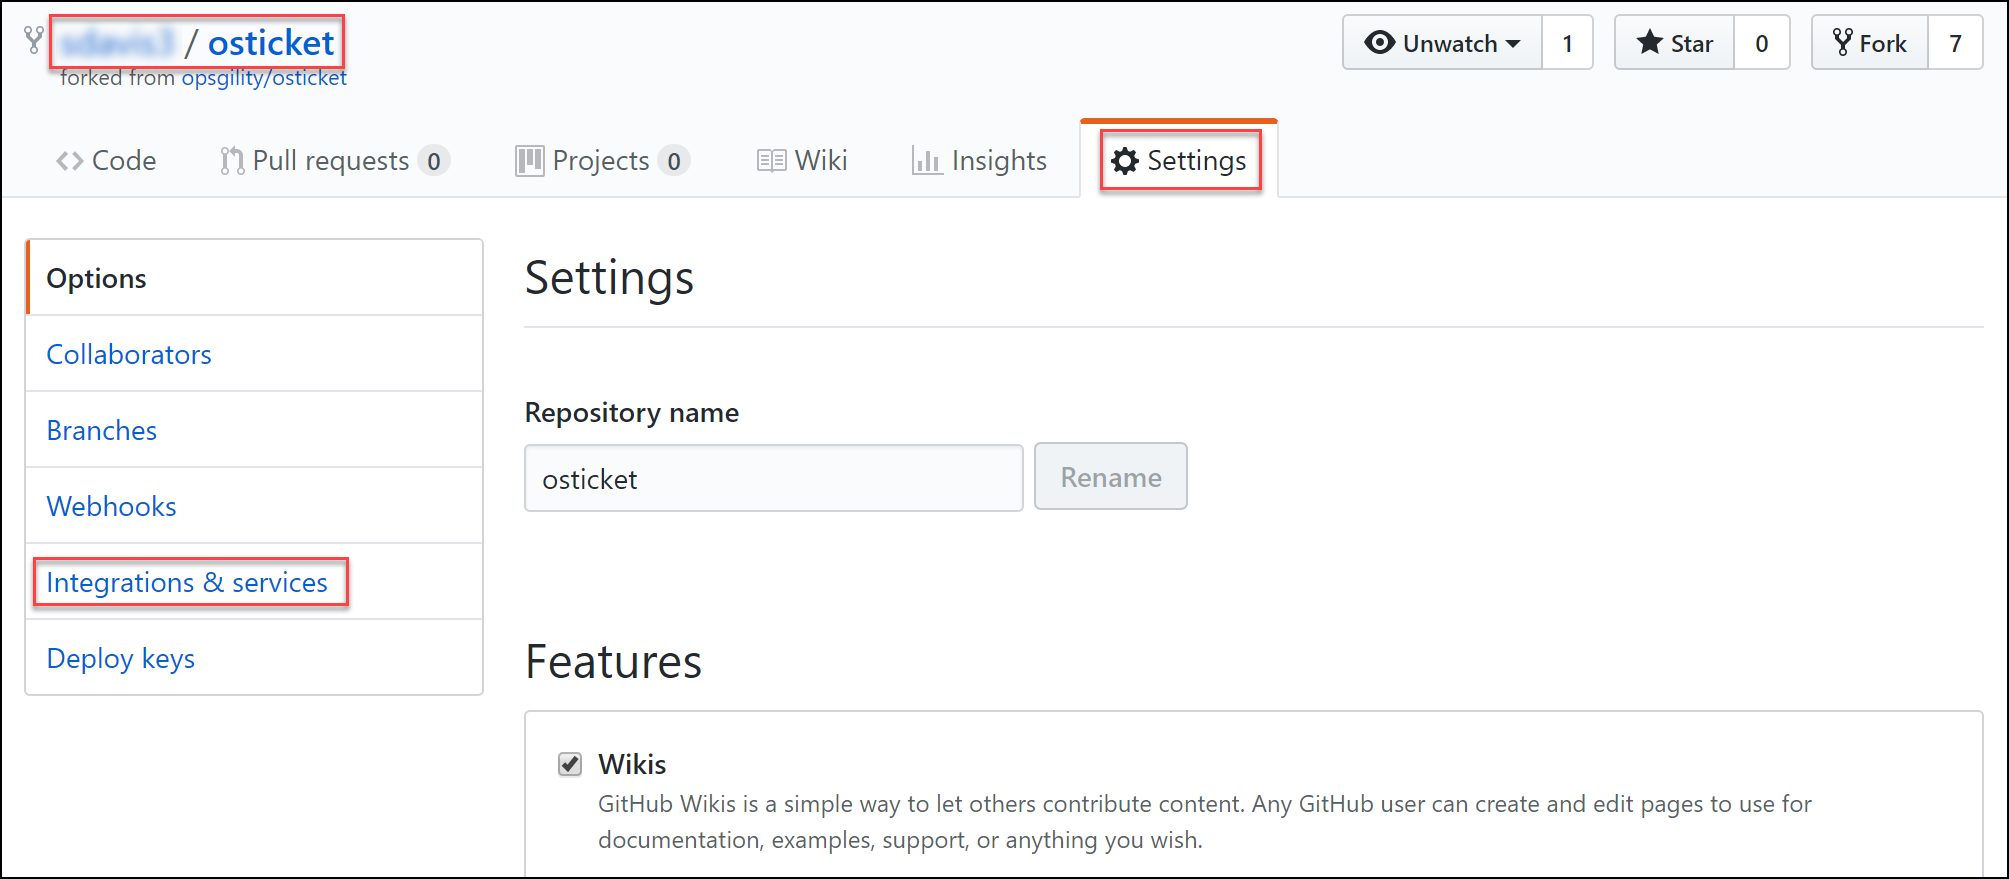
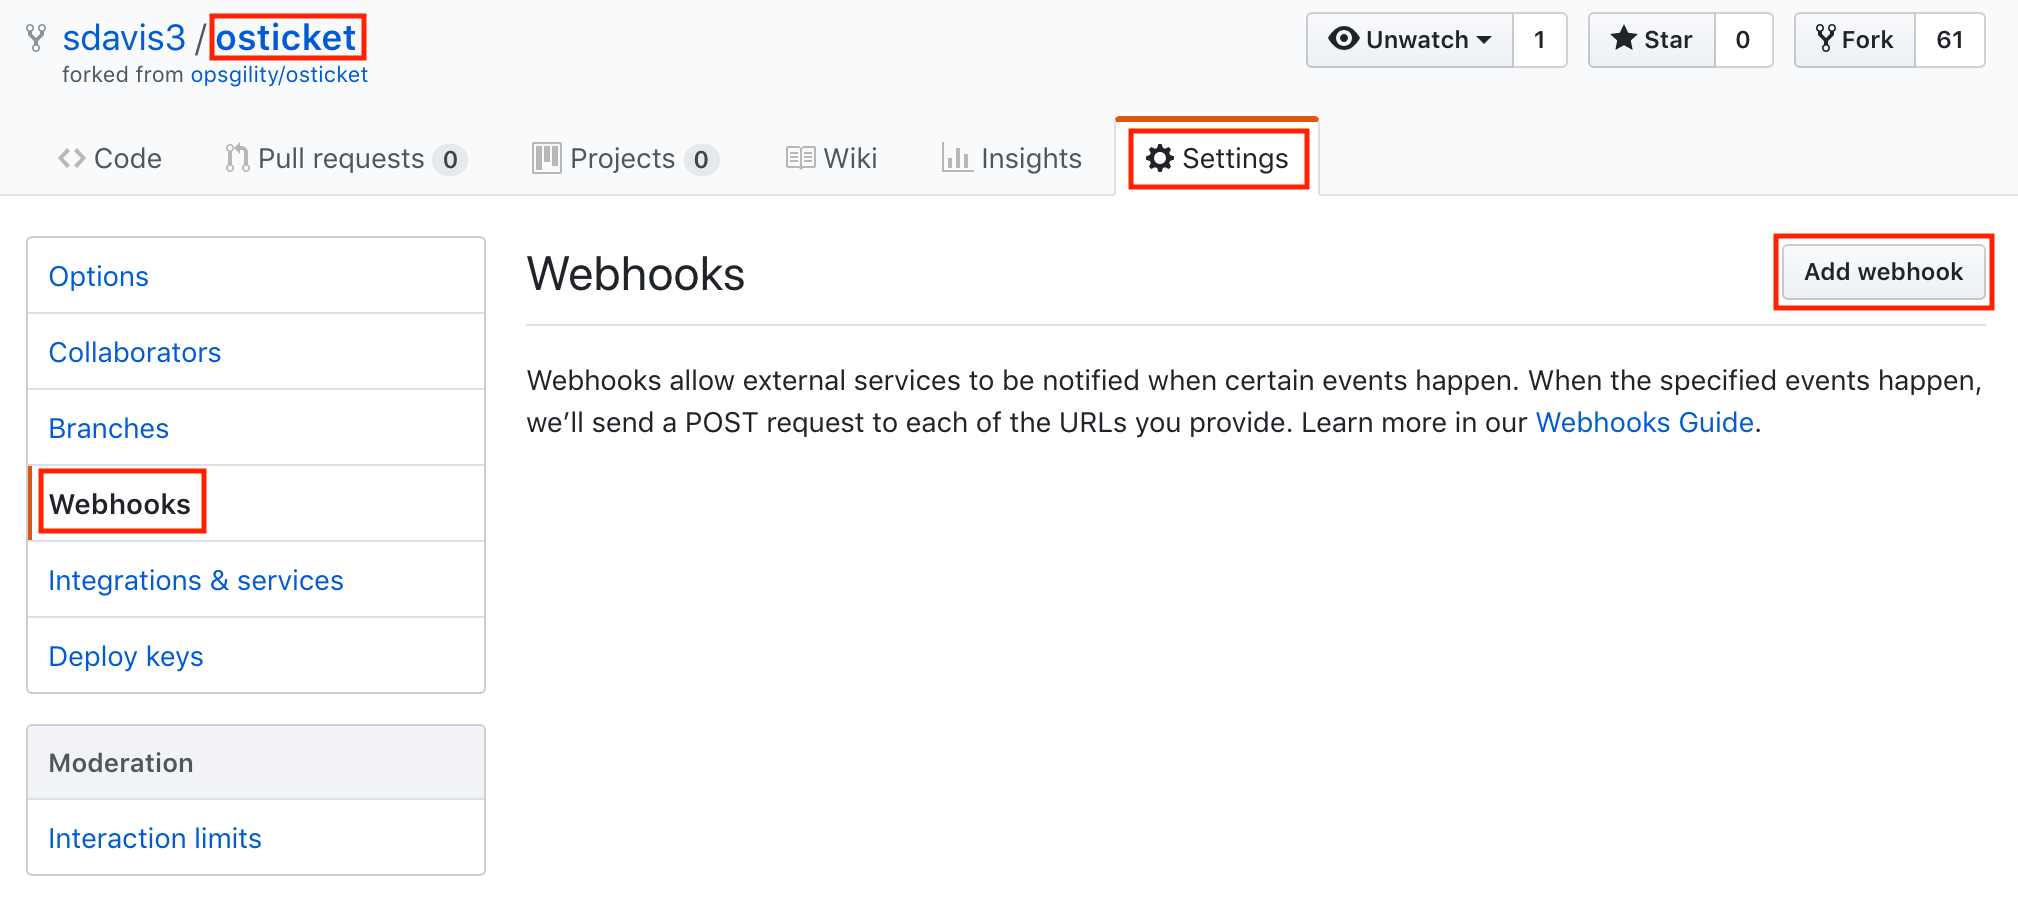
resolves #21

diff --git a/Hands-on lab/HOL step-by-step - OSS DevOps.md b/Hands-on lab/HOL step-by-step - OSS DevOps.md
@@ -46,9 +46,10 @@ Microsoft and the trademarks listed at https://www.microsoft.com/en-us/legal/int
     - [Task 1: Deploy a Jenkins server in Azure](#task-1-deploy-a-jenkins-server-in-azure)
     - [Task 2: Post-deployment configuration of the Jenkins server](#task-2-post-deployment-configuration-of-the-jenkins-server)
     - [Task 3: Configure Jenkins staging deployment](#task-3-configure-jenkins-staging-deployment)
-    - [Task 4: Configure your GitHub repo to notify Jenkins of changes](#task-4-configure-your-github-repo-to-notify-jenkins-of-changes)
-    - [Task 5: Check in a change to trigger Jenkins job](#task-5-check-in-a-change-to-trigger-jenkins-job)
-    - [Task 6: Manually deploy to production](#task-6-manually-deploy-to-production)
+    - [Task 4: Create a GitHub Personal Access Token](#task-4-create-a-github-personal-access-token)
+    - [Task 5: Configure your GitHub repo to notify Jenkins of changes](#task-5-configure-your-github-repo-to-notify-jenkins-of-changes)
+    - [Task 6: Check in a change to trigger Jenkins job](#task-6-check-in-a-change-to-trigger-jenkins-job)
+    - [Task 7: Manually deploy to production](#task-7-manually-deploy-to-production)
     - [Summary](#summary-2)
   - [After the hands-on lab](#after-the-hands-on-lab)
     - [Task 1: Delete Resources](#task-1-delete-resources)
@@ -324,7 +325,7 @@ In this exercise, you will deploy the web application and database to Azure usin
 
     ![The text field under Commit changes reads, \"Updated MySQL Server Settings.\" The option to Commit directly to the master branch is selected, as is the Commit Changes button at the bottom. ](images/Hands-onlabstep-by-step-OSSDevOpsimages/media/image54.png "Commit changes section")
 
-*** Task 5: Configure Deployment Center
+### Task 5: Configure Deployment Center
 
 Since you will be leveraging Jenkins to deploy the source code, you must first configure Deployment Center.
 
@@ -619,25 +620,59 @@ You are now ready to define your staging deployment job.
 
 21. On the **My Tickets** screen, move through to one of the tickets. Congratulations, you have successfully deployed the application.
 
-### Task 4: Configure your GitHub repo to notify Jenkins of changes
+### Task 4: Create a GitHub Personal Access Token
+
+For an upcoming task, you will need to generate a GitHub Personal Access Token. This token will allow GitHub to send Jenkins data to automatically trigger builds. 
+
+1.  Open a new browser tab and log into your GitHub repo ([https://github.com/\<username\>/osTicket](https://github.com/%3cusername%3e/osticket)), and choose your profile (top-right portion of the screen) followed by **Settings**.
+
+    ![Screenshot of GitHub profile Settings menu.](images/Hands-onlabstep-by-step-OSSDevOpsimages/media/image109.png "GitHub profile settings")
+
+2.  Select the **Developer settings** item from the left-side menu.
+
+    ![Screenshot of personal settings menu.](images/Hands-onlabstep-by-step-OSSDevOpsimages/media/image110.png "Developer settings")
+
+3.  When the Developer settings appear, select the **Personal access tokens** item from the left-side menu. Then, click the **Generate new token** button at the top of the screen to generate a new token.
+
+    ![Screenshot of Developer settings menu.](images/Hands-onlabstep-by-step-OSSDevOpsimages/media/image111.png "Personal access tokens")
+
+4.  On the **New personal access token** screen, enter a name such as **Jenkins Builds** in the **Token description field** and be sure to check the box for **admin:org_hook** under the **Selected scopes** section. 
+
+    ![Screenshot of Personal access tokens page.](images/Hands-onlabstep-by-step-OSSDevOpsimages/media/image112.png "Personal access tokens page")
+
+5.  Then click the **Generate token** button at the bottom of the page to complete the token generation process.
+
+6.  The page will refresh and your new Personal access token will be displayed near the top. Be sure to copy this token (yours will be different) and paste it into a notepad for later use as you will not be able to retreive it from GitHub once you leave this page.
+
+    ![Screenshot of the new Personal access token.](images/Hands-onlabstep-by-step-OSSDevOpsimages/media/image113.png "New Personal access token")
+
+### Task 5: Configure your GitHub repo to notify Jenkins of changes
 
 You will now configure your GitHub repository to notify your Jenkins server when a change has occurred, so the Jenkins Job is kicked off automatically.
 
-1.  Log into your GitHub repo ([https://github.com/\<username\>/osTicket](https://github.com/%3cusername%3e/osticket)), and choose **Settings** followed by **Integration & services**.
+1.  Log into your GitHub repo ([https://github.com/\<username\>/osTicket](https://github.com/%3cusername%3e/osticket)), and choose **Settings** followed by **Webhooks**.
 
-    ![Screenshot of GitHub repository Settings showing where Integration & services menu option is located.](images/Hands-onlabstep-by-step-OSSDevOpsimages/media/image97.png "Gitub settings")
+    ![Screenshot of GitHub repository Settings showing where Webhooks menu option is located.](images/Hands-onlabstep-by-step-OSSDevOpsimages/media/image97.png "Gitub settings")
 
-2.  Select **Add service**, and choose **Jenkins (GitHub plugin)**.
+2.  Select **Add webhook**, and set the following fields:
 
-    ![On the Installed integrations page, in the Services section, under Available Services, Jenkins (GitHub plugin) is selected.](images/Hands-onlabstep-by-step-OSSDevOpsimages/media/image98.png "Installed integrations page")
+    - **Payload URL** - This is the URL to your Jenkins environment appended with **/github-webhook/**. For example: **http://jenkins99.southcentralus.cloudapp.azure.com/github-webhook/**
 
-3.  For the Jenkins hook URL, enter the following (after updating the string with your servers FQDN). 
+        >**Note the trailing slash (/)** -- make sure it is included in your URL:
 
->**Note the trailing slash (/)** -- make sure it is included in your URL:
+    - **Content type** - Set this value to **application/json**.
 
-   ![On the Services / Add Jenkins (GitHub plugin) page, the previous code displays, and the Add service button is selected.](images/Hands-onlabstep-by-step-OSSDevOpsimages/media/image99.png "Services page")
+    - **Secret** - Paste your Personal access token that you saved from the previous task.
+- 
+    ![Add webhook page.](images/Hands-onlabstep-by-step-OSSDevOpsimages/media/image98.png "Add webhook")
 
-### Task 5: Check in a change to trigger Jenkins job
+3.  Finally, click the **Add webhook** button to finalize the creation of the new webhook.
+  
+4.  The page will refresh, and if we've done everything correctly, you'll see a confirmation that the webhook tested sucessfully as indicated by the green checkmark.
+
+    ![Successful webhook confirmation.](images/Hands-onlabstep-by-step-OSSDevOpsimages/media/image114.png "Successful webhook confirmation")
+
+### Task 6: Check in a change to trigger Jenkins job
 
 You will now check in a change to your Web Application code that will trigger your Jenkins job by editing the file that updates the home page.
 
@@ -685,7 +720,7 @@ You will now check in a change to your Web Application code that will trigger yo
 
     ![On the Jenkins portal homepage, Build History displays.](images/Hands-onlabstep-by-step-OSSDevOpsimages/media/image102.png "Jenkins portal homepage")
 
-### Task 6: Manually deploy to production
+### Task 7: Manually deploy to production
 
 Up to this point, you have automated the integration and delivery to your staging slot. You will now move those changes into the production slot *manually*. Leveraging the tools you have configured so far, you could ultimately automate this last step to get continuous deployment.
 
@@ -693,7 +728,7 @@ Up to this point, you have automated the integration and delivery to your stagin
 
     ![Screenshot showing how to navigate to the app service.](images/Hands-onlabstep-by-step-OSSDevOpsimages/media/image103.png "Choosing the web app")
 
-2.  Select **Deployment slots \> Swap**.
+2.  Select **Swap** at the top of the screen.
 
     ![Screenshot showing how to navigate to swap the deployment slots](images/Hands-onlabstep-by-step-OSSDevOpsimages/media/image104.png "Swapping the web app")
 

diff --git a/Hands-on lab/HOL unguided - OSS DevOps.md b/Hands-on lab/HOL unguided - OSS DevOps.md
@@ -27,32 +27,61 @@ Microsoft and the trademarks listed at https://www.microsoft.com/en-us/legal/int
 <!-- TOC -->
 
 - [OSS DevOps hands-on lab unguided](#oss-devops-hands-on-lab-unguided)
-    - [Abstract and learning objectives](#abstract-and-learning-objectives)
-    - [Overview](#overview)
-    - [Solution architecture](#solution-architecture)
-    - [Requirements](#requirements)
-        - [Help references](#help-references)
-    - [Exercise 1: Deploy the Web Application and Database to Azure](#exercise-1-deploy-the-web-application-and-database-to-azure)
-        - [Task 1: Create the MySQL database](#task-1-create-the-mysql-database)
-        - [Task 2: Restore the osTicket database to MySQL PaaS](#task-2-restore-the-osticket-database-to-mysql-paas)
-        - [Task 3: Create the Web App](#task-3-create-the-web-app)
-        - [Task 4: Configure the osTicket Web App](#task-4-configure-the-osticket-web-app)
-        - [Task 5: Configure FTP deployment credentials](#task-5-configure-ftp-deployment-credentials)
-        - [Task 6: Configure a staging slot](#task-6-configure-a-staging-slot)
-        - [Summary](#summary)
-    - [Exercise 2: Configure local Git repository](#exercise-2-configure-local-git-repository)
-        - [Task 1: Clone a GitHub repository locally](#task-1-clone-a-github-repository-locally)
-        - [Summary](#summary-1)
-    - [Exercise 3: Configure Git and Jenkins for continuous integration, delivery and deployment](#exercise-3-configure-git-and-jenkins-for-continuous-integration-delivery-and-deployment)
-        - [Task 1: Deploy a Jenkins server in Azure](#task-1-deploy-a-jenkins-server-in-azure)
-        - [Task 2: Post-Deployment configuration of the Jenkins server](#task-2-post-deployment-configuration-of-the-jenkins-server)
-        - [Task 3: Configure Jenkins staging deployment](#task-3-configure-jenkins-staging-deployment)
-        - [Task 4: Configure your GitHub repo to notify Jenkins of changes](#task-4-configure-your-github-repo-to-notify-jenkins-of-changes)
-        - [Task 5: Check in a change to trigger Jenkins job](#task-5-check-in-a-change-to-trigger-jenkins-job)
-        - [Task 6: Manually deploy to production](#task-6-manually-deploy-to-production)
-        - [Summary](#summary-2)
-    - [After the hands-on lab](#after-the-hands-on-lab)
-        - [Task 1: Delete Resources](#task-1-delete-resources)
+  - [Abstract and learning objectives](#abstract-and-learning-objectives)
+  - [Overview](#overview)
+  - [Solution architecture](#solution-architecture)
+  - [Requirements](#requirements)
+    - [Help references](#help-references)
+  - [Exercise 1: Deploy the Web Application and Database to Azure](#exercise-1-deploy-the-web-application-and-database-to-azure)
+    - [Task 1: Create the MySQL database](#task-1-create-the-mysql-database)
+      - [Tasks to complete](#tasks-to-complete)
+      - [Exit criteria](#exit-criteria)
+    - [Task 2: Restore the osTicket database to MySQL PaaS](#task-2-restore-the-osticket-database-to-mysql-paas)
+      - [Tasks to complete](#tasks-to-complete-1)
+      - [Exit criteria](#exit-criteria-1)
+    - [Task 3: Create the Web App](#task-3-create-the-web-app)
+      - [Tasks to complete](#tasks-to-complete-2)
+      - [Exit criteria](#exit-criteria-2)
+    - [Task 4: Configure the osTicket Web App](#task-4-configure-the-osticket-web-app)
+      - [Tasks to complete](#tasks-to-complete-3)
+      - [Exit criteria](#exit-criteria-3)
+    - [Task 5: Configure Deployment Center](#task-5-configure-deployment-center)
+      - [Tasks to complete](#tasks-to-complete-4)
+      - [Exit criteria](#exit-criteria-4)
+    - [Task 6: Configure a staging slot](#task-6-configure-a-staging-slot)
+      - [Tasks to complete](#tasks-to-complete-5)
+      - [Exit criteria](#exit-criteria-5)
+    - [Summary](#summary)
+  - [Exercise 2: Configure local Git repository](#exercise-2-configure-local-git-repository)
+    - [Task 1: Clone a GitHub repository locally](#task-1-clone-a-github-repository-locally)
+      - [Tasks to complete](#tasks-to-complete-6)
+      - [Exit criteria](#exit-criteria-6)
+    - [Summary](#summary-1)
+  - [Exercise 3: Configure Git and Jenkins for continuous integration, delivery and deployment](#exercise-3-configure-git-and-jenkins-for-continuous-integration-delivery-and-deployment)
+    - [Task 1: Deploy a Jenkins server in Azure](#task-1-deploy-a-jenkins-server-in-azure)
+      - [Tasks to complete](#tasks-to-complete-7)
+      - [Exit criteria](#exit-criteria-7)
+    - [Task 2: Post-deployment configuration of the Jenkins server](#task-2-post-deployment-configuration-of-the-jenkins-server)
+      - [Tasks to complete](#tasks-to-complete-8)
+      - [Exit criteria](#exit-criteria-8)
+    - [Task 3: Configure Jenkins staging deployment](#task-3-configure-jenkins-staging-deployment)
+      - [Tasks to complete](#tasks-to-complete-9)
+      - [Exit criteria](#exit-criteria-9)
+    - [Task 4: Create a GitHub Personal Access Token](#task-4-create-a-github-personal-access-token)
+      - [Tasks to complete](#tasks-to-complete-10)
+      - [Exit criteria](#exit-criteria-10)
+    - [Task 5: Configure your GitHub repo to notify Jenkins of changes](#task-5-configure-your-github-repo-to-notify-jenkins-of-changes)
+      - [Tasks to complete](#tasks-to-complete-11)
+      - [Exit criteria](#exit-criteria-11)
+    - [Task 6: Check in a change to trigger Jenkins job](#task-6-check-in-a-change-to-trigger-jenkins-job)
+      - [Tasks to complete](#tasks-to-complete-12)
+      - [Exit criteria](#exit-criteria-12)
+    - [Task 7: Manually deploy to production](#task-7-manually-deploy-to-production)
+      - [Tasks to complete](#tasks-to-complete-13)
+      - [Exit criteria](#exit-criteria-13)
+    - [Summary](#summary-2)
+  - [After the hands-on lab](#after-the-hands-on-lab)
+    - [Task 1: Delete Resources](#task-1-delete-resources)
 
 <!-- /TOC -->
 
@@ -139,11 +168,11 @@ In this exercise, you will deploy the web application and database to Azure usin
 
 -   The application should be configured to reference your MySQL database.
 
-### Task 5: Configure FTP deployment credentials 
+### Task 5: Configure Deployment Center
 
 #### Tasks to complete
 
--   Configure the FTP credentials for the web app so that Jenkins can use them to deploy the application.
+-   Using Deployment Center, configure the FTP credentials for the web app so that Jenkins can use them to deploy the application.
 
 #### Exit criteria
 
@@ -201,7 +230,7 @@ Jenkins is an open source continuous integration tool written in Java. It provid
 
 -   You should have a Jenkins server deployed in your Azure subscription.
 
-### Task 2: Post-Deployment configuration of the Jenkins server
+### Task 2: Post-deployment configuration of the Jenkins server
 
 #### Tasks to complete
 
@@ -227,17 +256,27 @@ Jenkins is an open source continuous integration tool written in Java. It provid
 
 -   After this task, the osTicket application should be browsable from the staging slot of your Azure Web App.
 
-### Task 4: Configure your GitHub repo to notify Jenkins of changes
+### Task 4: Create a GitHub Personal Access Token
 
 #### Tasks to complete
 
--   Configure Jenkins to use Web Hooks to be notified when changes occur in your GitHub repository.
+-   Create a GitHub Personal Access Token to allow GitHub to send Jenkins data to automatically trigger builds.
+
+#### Exit criteria
+
+-   After this task, a GitHub Personal Access Token should be copied to a notepad for an upcoming task.
+
+### Task 5: Configure your GitHub repo to notify Jenkins of changes
+
+#### Tasks to complete
+
+-   Configure Jenkins to use a webhook to be notified when changes occur in your GitHub repository.
 
 #### Exit criteria
 
 -   After this task, the osTicket application should automatically deploy code changes checked into GitHub.
 
-### Task 5: Check in a change to trigger Jenkins job
+### Task 6: Check in a change to trigger Jenkins job
 
 #### Tasks to complete
 
@@ -249,7 +288,7 @@ Jenkins is an open source continuous integration tool written in Java. It provid
 
 -   After this task, the **Run on Azure App Services!** text should be visible on the staging slot.
 
-### Task 6: Manually deploy to production
+### Task 7: Manually deploy to production
 
 #### Tasks to complete
 
